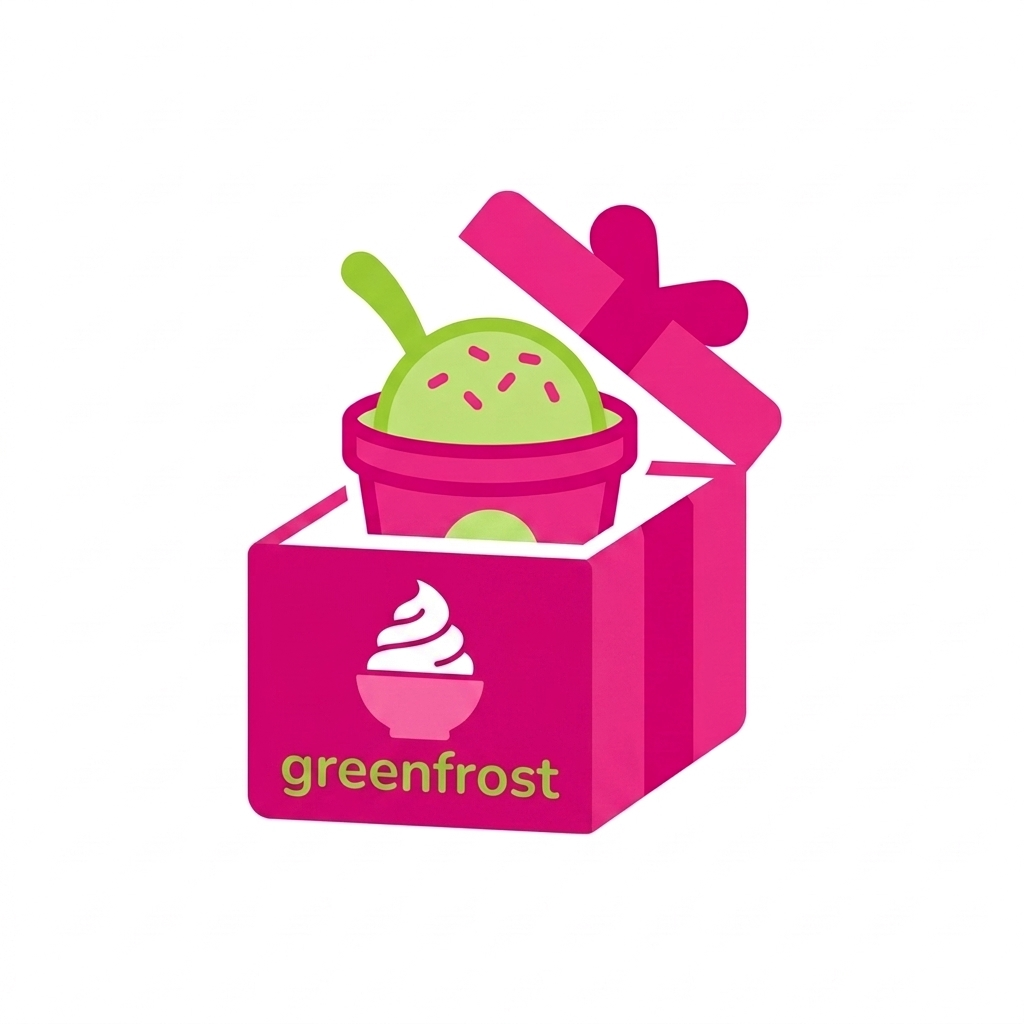
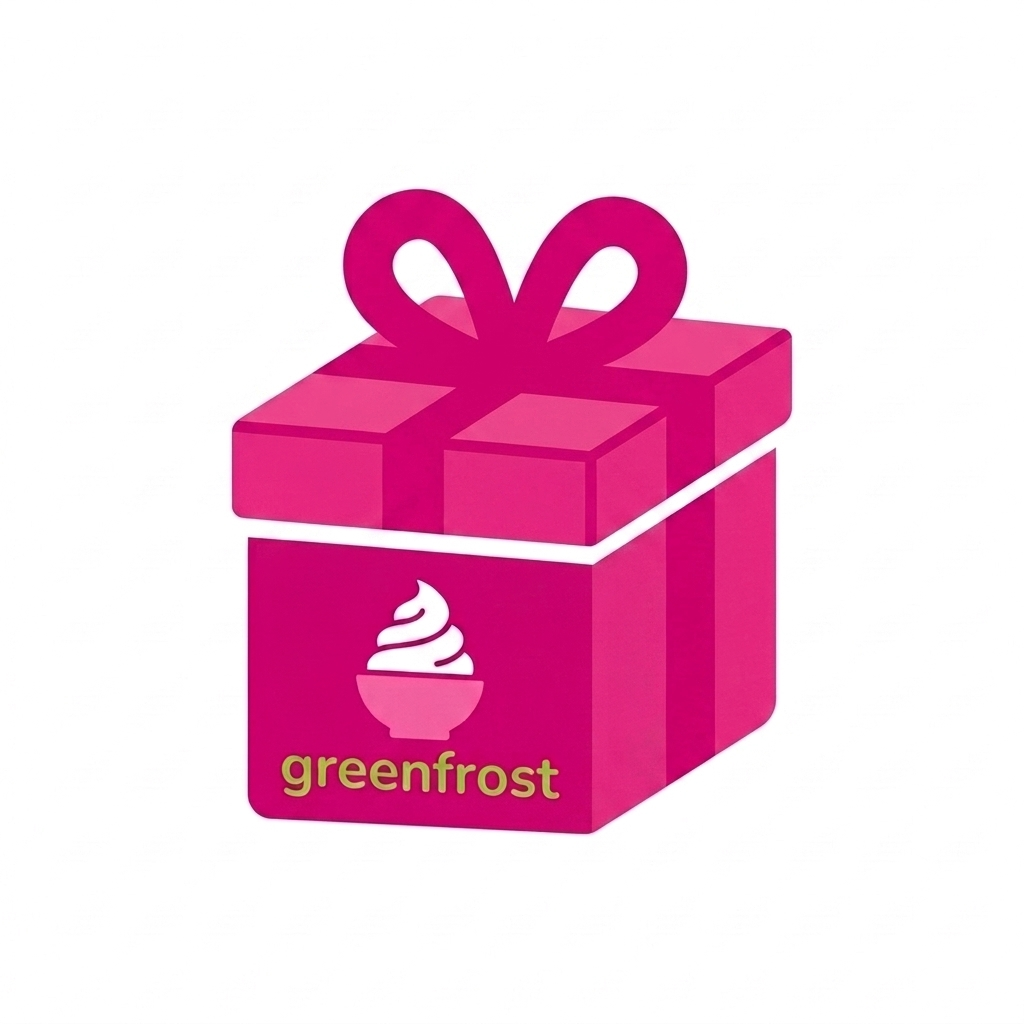
Mejoras Puntos Fifelidad

Changed region(s): [[0.2188, 0.1875, 0.7812, 0.7812], [0.5938, 0.7812, 0.625, 0.8125]]

diff --git a/index.html b/index.html
@@ -345,20 +345,26 @@
           </div>
         </div>
 
-        <!-- 🏆 Points 🏆 -->
-        <h2 class="section-title">
-          <span class="emoji">⭐</span>
-          Tus Puntos
-        </h2>
-        <div class="points-grid" id="points-cards-container">
-          <!-- Populated by JS -->
-        </div>
+          <!-- ⭐ Points ⭐ -->
+          <h2 class="section-title">
+            <span class="emoji">⭐</span>
+            Tus Puntos
+          </h2>
+          <p style="text-align: center; color: var(--text-light); font-size: 0.9rem; margin-top: -10px; margin-bottom: 20px;">Por cada 10 puntos acumulados podras canjear 1 Helado Pequeño ¡¡Totalmente Gratis!!</p>
+          <div class="points-grid" id="points-cards-container">
+            <!-- Populated by JS -->
+          </div>
+          
+          <div class="terms-conditions" style="margin-top: 15px; margin-bottom: 30px; font-size: 0.75rem; color: var(--text-light); line-height: 1.4; padding: 0 10px;">
+            <p style="margin-bottom: 8px;">* Los puntos no son transferibles entre sucursales y el premio debera ser canjeado en la sucursal donde fueron acumulados.</p>
+            <p>** La acumulacion de puntos mediante esta aplicacion solo esta disponible para las 4 sucursales de Greenfrost desplegadas.</p>
+          </div>
 
-        <!-- ─── Rewards ─── -->
+          <!-- 🎁 Rewards 🎁 -->
         <div class="rewards-section">
           <h2 class="section-title">
             <span class="emoji">🎁</span>
-            Mis Premios
+            Tus Premios
           </h2>
 
           <div class="rewards-tabs">

diff --git a/app.js b/app.js
@@ -185,19 +185,28 @@ function renderPoints(puntosData) {
     if(!container) return;
     container.innerHTML = '';
     
+    const branchAddresses = {
+        'Local Rosales': 'Av. Venezuela. Calle del Colesterol',
+        'Local Pambiles': 'Av. Rio Toachi y Abraham Calazacon. Sector ECU 911',
+        'Local 29': 'Av. 29 de Mayo y Cocaniguas. Sector Parque Central',
+        'Local Quito': 'Av. Quito y Rio Chimbo. Sector Banco Bolivariano'
+    };
+
     BRANCHES.forEach(branch => {
         // Find matching key case-insensitively to avoid mismatches like 'pambiles' vs 'Local Pambiles'
         const matchedKey = Object.keys(puntosData).find(k => branch.toLowerCase().includes(k.toLowerCase()) || k.toLowerCase().includes(branch.toLowerCase()));
         const pts = matchedKey ? puntosData[matchedKey] : 0;
+        const address = branchAddresses[branch] || '';
         
         const card = document.createElement('div');
         card.className = 'point-card';
         card.innerHTML = `
-            <h4>${branch}</h4>
-            <div class="points-val">${pts} pts</div>
+            <div class="point-card-branch" style="margin-bottom: 5px;">${branch}</div>
+            <div style="font-size: 0.7rem; color: var(--text-tertiary); margin-bottom: 15px;">${address}</div>
+            <div class="point-card-value">${pts} pts</div>
             ${pts >= POINTS_PER_REWARD 
-                ? `<button class="btn-redeem" onclick="redeemReward('${branch}')">🎁 Canjear Premio</button>`
-                : `<div class="points-missing">Faltan ${POINTS_PER_REWARD - pts} puntos</div>`
+                ? `<button class="btn-redeem" onclick="redeemReward('${branch}')" style="margin-top: 10px;">🎁 Canjear Premio</button>`
+                : `<div class="point-card-action remaining" style="margin-top: 10px;">Faltan ${POINTS_PER_REWARD - pts} puntos</div>`
             }
         `;
         container.appendChild(card);
@@ -215,7 +224,9 @@ function renderRewards(premiosData) {
     let hasPending = false;
     let hasDelivered = false;
 
-    premiosData.forEach(p => {
+    const sortedPremios = premiosData.slice().reverse();
+
+    sortedPremios.forEach(p => {
         const div = document.createElement('div');
         div.className = 'reward-item ' + p.estado;
         div.innerHTML = `

diff --git a/styles.css b/styles.css
@@ -1009,6 +1009,9 @@ body.dark-mode .limit-message.extra {
   box-shadow: var(--shadow-sm);
   text-align: center;
   transition: all var(--duration-normal) var(--ease-spring);
+  display: flex;
+  flex-direction: column;
+  height: 100%;
 }
 
 .point-card:hover {
@@ -1030,6 +1033,7 @@ body.dark-mode .limit-message.extra {
   font-weight: var(--fw-extrabold);
   color: var(--green);
   line-height: var(--lh-tight);
+  margin-top: auto;
 }
 
 .point-card-label {